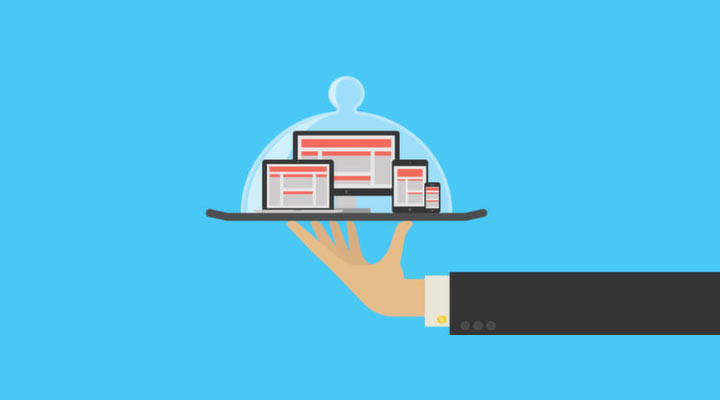
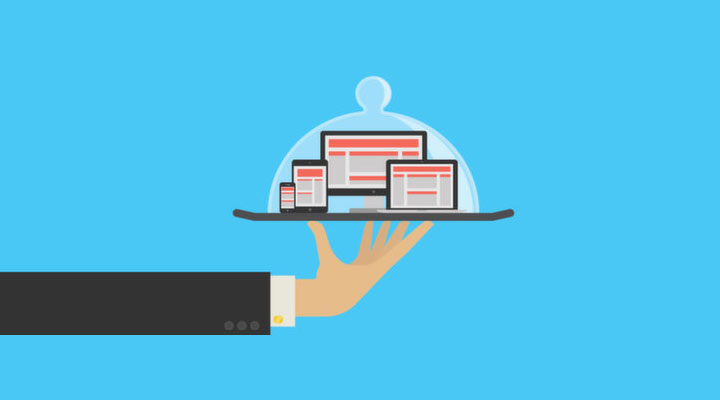
Update intermediate image

Changed region(s): [[0.0, 0.18, 1.0, 0.84]]

diff --git a/index.html b/index.html
@@ -65,7 +65,7 @@
                 <div class="col-md-6 wp6 delay-05s">
                     <div class="overlay-effect effects clearfix">
                         <div class="img">
-                            <img src="img/materials-02.jpg" alt="Intermediate Materials">
+                            <img src="img/materials-03.jpg" alt="Intermediate Materials">
                             <div class="overlay">
                                 <a target="_blank" href="http://www.meetup.com/Girl-Develop-It-Boston/events/224679856/" class="expand"><i class="fa fa-search"></i><br>Register Now</a>
                                 <a class="close-overlay hidden">x</a>
